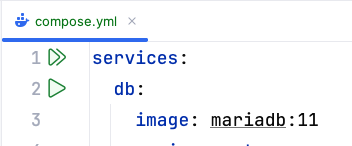
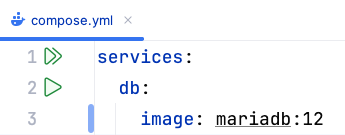
P5: move to MariaDB 12 and Apache Kafka Docker images

diff --git a/src/practicals/container-orchestration/03-compose.md b/src/practicals/container-orchestration/03-compose.md
@@ -21,7 +21,7 @@ Successfully tagged book-microservice:latest
 
 This means that your local Docker installation now has a `book-microservice` image, with the `latest` tag.
 
-In a real-world environment you would normally push this image to a repository (e.g. Docker Hub, Github Packages, or your company's), but in ENG2 we will limit ourselves to local images.
+In a real-world environment you would normally push this image to a registry (e.g. Docker Hub, Github Packages, or your company's), but in ENG2 we will limit ourselves to local images.
 
 ## Starting the Compose file: initial skeleotn
 
@@ -49,7 +49,7 @@ Looking at their instructions, we figure out that we want to update our Compose 
 ```yaml
 services:
   db:
-    image: mariadb:11
+    image: mariadb:12
     environment:
       MARIADB_USER: books
       MARIADB_PASSWORD: bookspw
@@ -67,7 +67,7 @@ volumes:
 
 The above fragment means the following:
 
-* The `db` service runs the MariaDB 11 image from the Docker Hub.
+* The `db` service runs the MariaDB 12 image from the Docker Hub.
 * The `db` service mounts the `mariadb_data` named volume into `/var/lib/mysql` so the database can survive the re-creation of the container, as suggested in the image documentation (see "Where to Store Data").
 * The `db` service sets a few environment variables that are used by the image to set the username and password for the default database, as well as the password of the root MariaDB user.
 * The `db` service includes an automated healthcheck (based on the image instructions). This is used in two ways:
@@ -132,25 +132,23 @@ If you copied over the `kafka-ui` service, you should also be able to [access it
 Here are some details of how we have configured this cluster.
 If you would like to know more, read on, otherwise go to the next step:
 
-* We use the [Bitnami Kafka image](https://hub.docker.com/r/bitnami/kafka) as they are non-root containers, which offer an additional layer of security over the more standard [Confluent Kafka](https://hub.docker.com/r/confluentinc/cp-kafka) image. 
+* We use the [Apache Kafka image](https://hub.docker.com/r/apache/kafka), which is based from its open-source release without any Confluent extras. 
 * We choose 3 nodes as that is the minimal number we need in order to reach consensus (2 nodes would run into ties).
   The overall multi-node setup is as follows:
-  * Each node has a unique ID (`KAFKA_CFG_NODE_ID`) within the cluster.
-  * Kafka nodes can have different roles (controller, broker), but here we have all 3 nodes take on both roles (`KAFKA_CFG_PROCESS_ROLES`).
-  * Nodes need to know about each other for voting processes (`KAFKA_CFG_CONTROLLER_QUORUM_VOTERS`).
-  * Kafka uses a consensus protocol to agree on the overall cluster state. Kafka used to rely on a separate [ZooKeeper cluster](https://zookeeper.apache.org/) for this, but recent versions can instead use the [KRaft protocol](https://developer.confluent.io/learn/kraft/).
-    The `KAFKA_KRAFT_CLUSTER_ID` variable provides a unique identifier for the KRaft cluster this node belongs to.
-    In a production environment, this would be a pseudorandom string.
+  * Each node has a unique ID (`KAFKA_NODE_ID`) within the cluster.
+  * Kafka nodes can have different roles (controller, broker), but here we have all 3 nodes take on both roles (`KAFKA_PROCESS_ROLES`).
+  * Nodes need to know about each other for voting processes (`KAFKA_CONTROLLER_QUORUM_VOTERS`).
 * Each node has a number of "listeners" that accept connections, with different roles:
   * Within the Compose network, regular users (like our microservice) will use the `PLAINTEXT` listeners which listen on port 9092.
   * Controllers will talk to each other via the `CONTROLLER` listeners bound to port 9093.
-  * Only the `PLAINTEXT` listener is advertised to regular users (`KAFKA_CFG_ADVERTISED_LISTENERS`).
-  * We use plaintext security for both listeners (`KAFKA_CFG_LISTENER_SECURITY_PROTOCOL_MAP`): in a production environment we will use stronger security.
-  * We use `KAFKA_CFG_CONTROLLER_LISTENER_NAMES` and `KAFKA_CFG_INTER_BROKER_LISTENER_NAME` to indicate the listeners used for inter-controller and inter-broker communication.
-* We have some default topic settings: 6 partitions, and replication factor of 3.
+  * Only the `PLAINTEXT` listener is advertised to regular users (`KAFKA_ADVERTISED_LISTENERS`).
+  * We use plaintext security for both listeners (`KAFKA_LISTENER_SECURITY_PROTOCOL_MAP`): in a production environment we will use stronger security.
+  * We use `KAFKA_CONTROLLER_LISTENER_NAMES` and `KAFKA_INTER_BROKER_LISTENER_NAME` to indicate the listeners used for inter-controller and inter-broker communication.
+* We have some default topic settings: 6 partitions (`KAFKA_NUM_PARTITIONS`), 3 replicas (`KAFKA_OFFSETS_TOPIC_REPLICATION_FACTOR`, `KAFKA_TRANSACTION_STATE_LOG_REPLICATION_FACTOR`), and a minimum of 2 replicas must confirm each write when producing events (`KAFKA_TRANSACTION_STATE_LOG_MIN_ISR`).
   * The settings in our `NewTopic` instances take precedence over these, however.
-* We have disabled topic autocreation: instead, we use our topic factories. This prevents unintentional creation of topics.
-* There are some options for integrating the [Java Management Extensions](https://docs.oracle.com/javase/8/docs/technotes/guides/management/agent.html) instrumentation to automatically obtain certain metrics, such as memory usage.
+* We have disabled topic autocreation (`KAFKA_AUTO_CREATE_TOPICS_ENABLE`): instead, we use our topic factories. This prevents unintentional creation of topics.
+* `JMX_PORT` enables the [Java Management Extensions](https://docs.oracle.com/javase/8/docs/technotes/guides/management/agent.html) instrumentation to automatically obtain certain metrics, such as memory usage.
+  * In this module, we will not secure it to keep things simple, but this must be done for a production environment.
 
 ## Adding the microservice
 

diff --git a/src/practicals/container-orchestration/02-e2e-testing.md b/src/practicals/container-orchestration/02-e2e-testing.md
@@ -28,12 +28,12 @@ Use [Micronaut Launch](https://micronaut.io/launch/) as usual, but this time, do
 * Features: do not select any features.
 
 Download the project and import it to your IDE.
-For this practical, you will need to have in your IDE both a solution to Practical 4 (either yours or the [model solution](../../solutions/practical3.zip)), and the end-to-end test project.
+For this practical, you will need to have in your IDE both a solution to Practical 4 (either yours or the [model solution](../../solutions/practical4-books.zip)), and the end-to-end test project.
 
 *NOTE*: in this practical we will not make *any* changes to `book-microservice` at all.
 We will only develop `e2e-tests` and a Compose file that deploys `book-microservice`.
 
-For loading multiple Gradle projects at the same time into IntelliJ, check how we did it in [Practical 3](../micronaut-kafka/02-create-project.md#adding-the-project-to-intellij).
+For loading multiple Gradle projects at the same time into IntelliJ, check how we did it in [Practical 4](../micronaut-kafka/02-create-project.md#adding-the-project-to-intellij).
 Once you have loaded both, your Gradle drawer should look like this:
 
 ![Screenshot of both Gradle projects loaded into IntelliJ](./both-projects.png)

diff --git a/src/practicals/container-orchestration/01-introduction.md b/src/practicals/container-orchestration/01-introduction.md
@@ -13,9 +13,9 @@ This will help us test that the container orchestration is working as intended.
 
 You should be able to:
 
-* Generate clients from OpenAPI specifications (from Practical 4).
+* Generate clients from OpenAPI specifications (from [Practical 3](../03-service-integration.md)).
 
-You should be familiar with these concepts from the Week 4 lectures:
+You should be familiar with these concepts from the Week 3 lectures:
 
 * How to write test assertions about the expected eventual state of the system using Awaitility.
 
@@ -42,4 +42,4 @@ You should be familiar with these concepts from the Week 5 lectures:
 
 ## What you will do
 
-You will start from a solution of Practical 4 (either yours, or [our model solution](../../solutions/practical3.zip)) and work through the rest of the sections.
+You will start from a solution of the [Background Processing](../micronaut-kafka/07-background-processing.md) exercise of Practical 4 (either yours, or [our model solution](../../solutions/practical4-books.zip)) and work through the rest of the sections.
